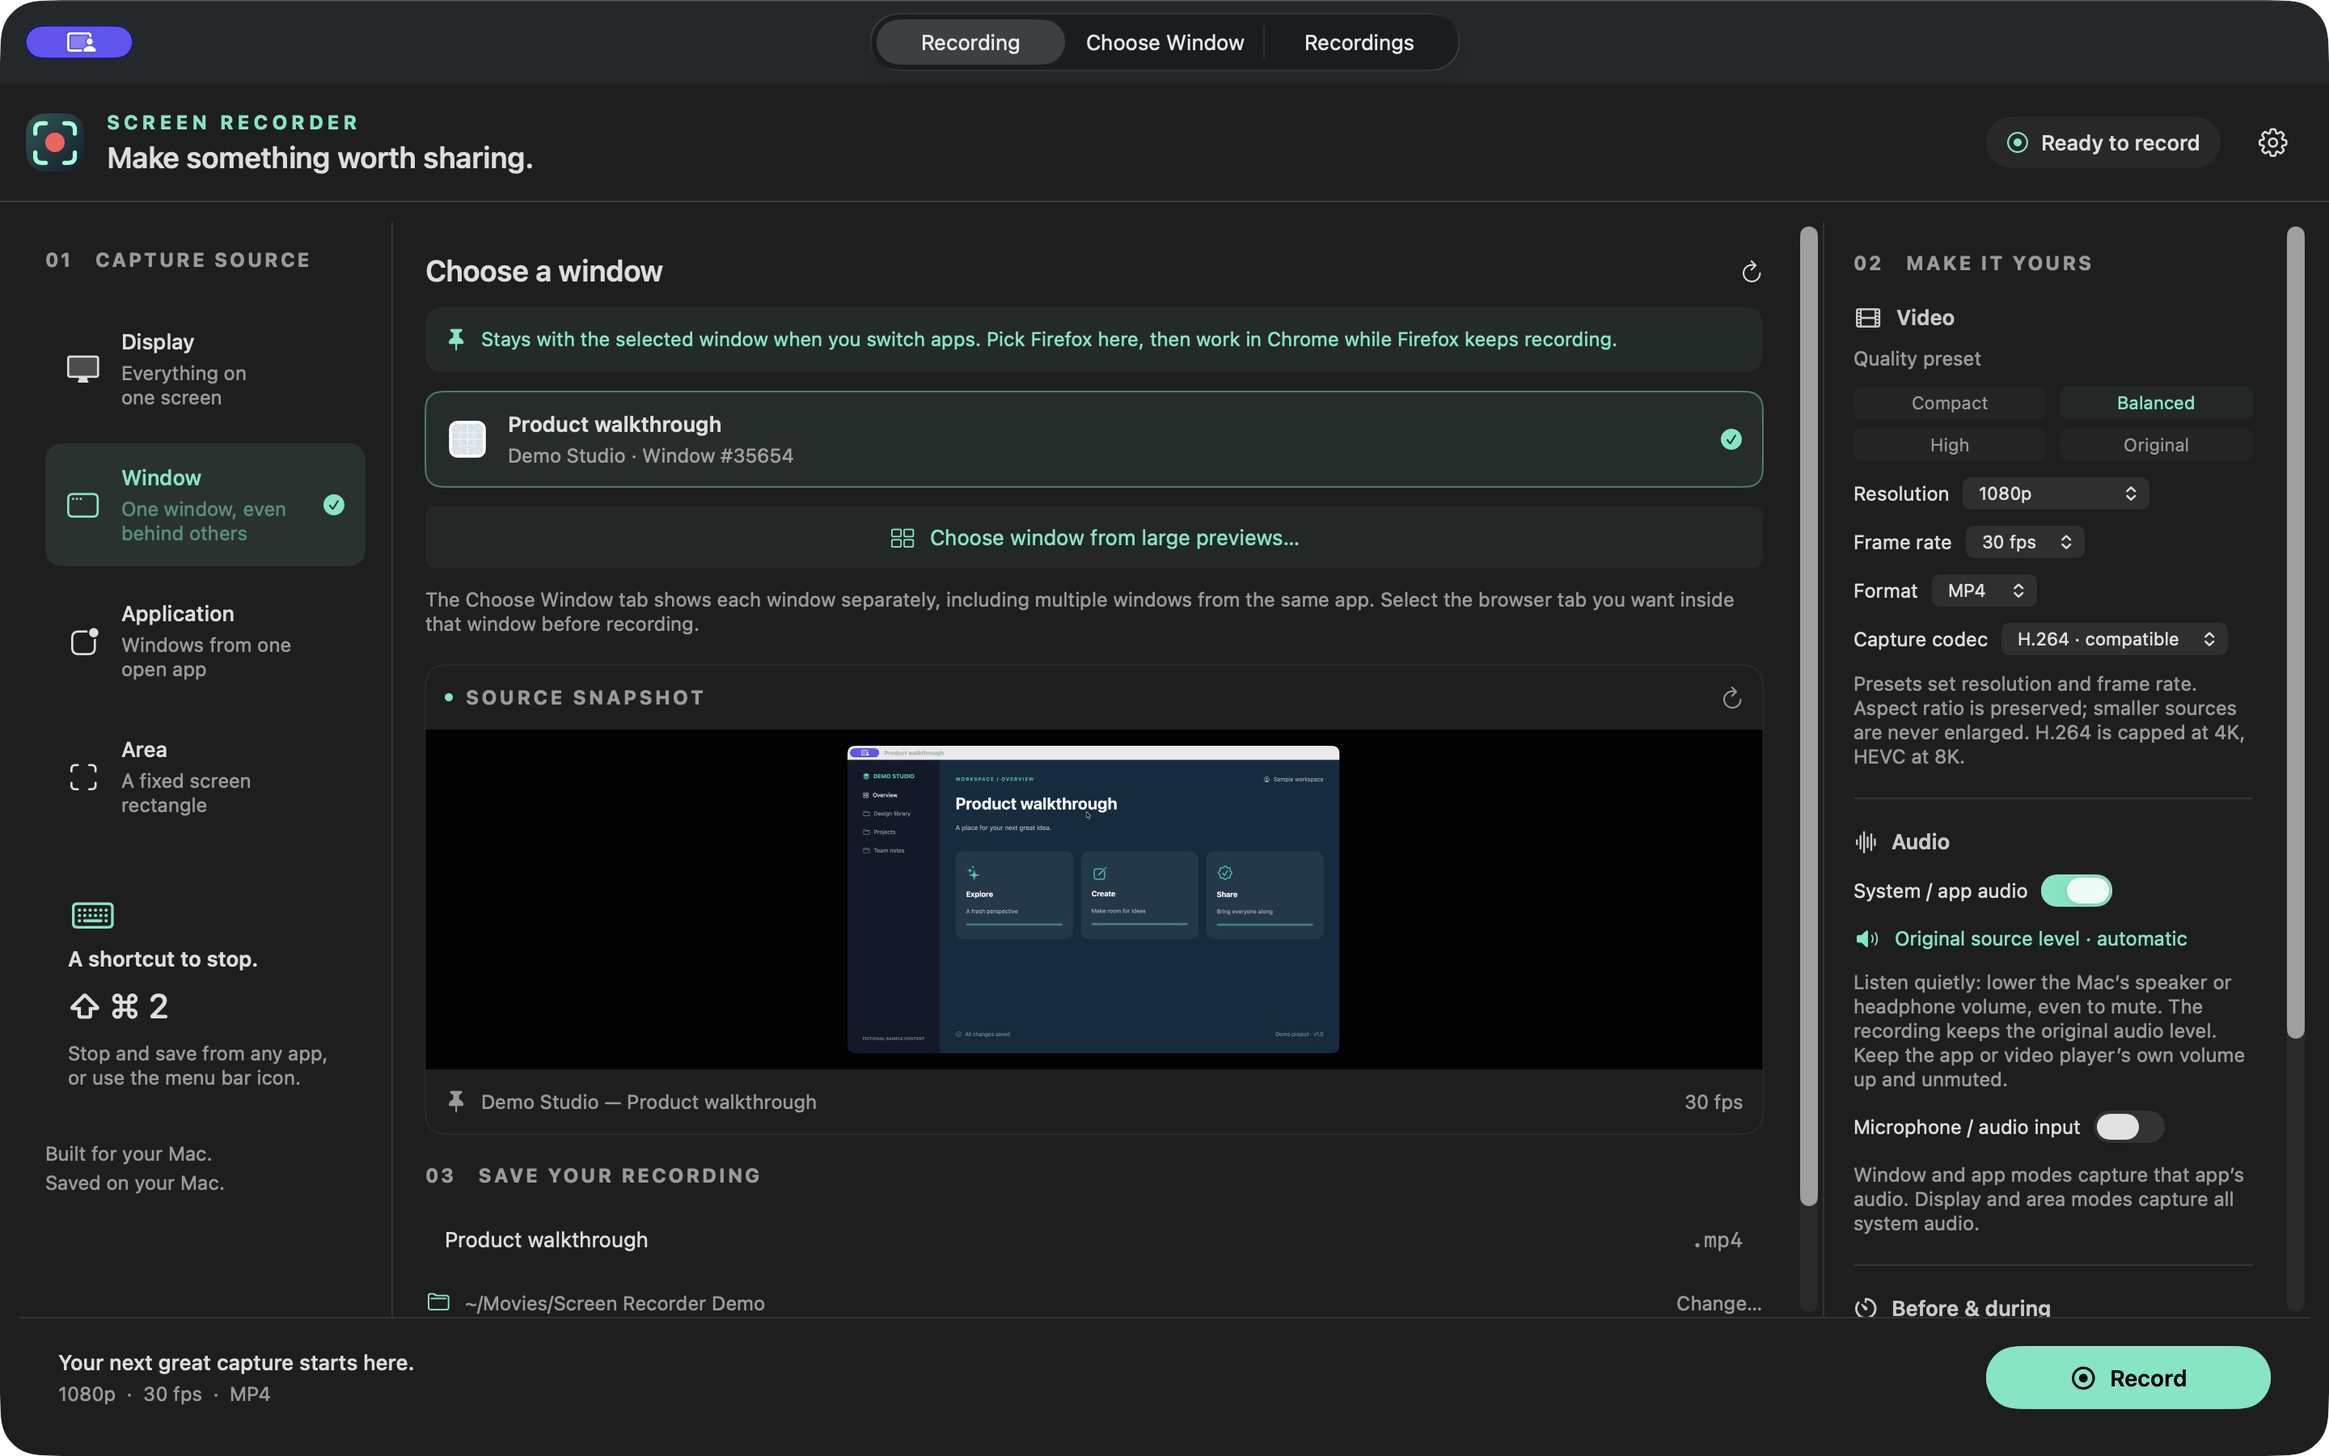
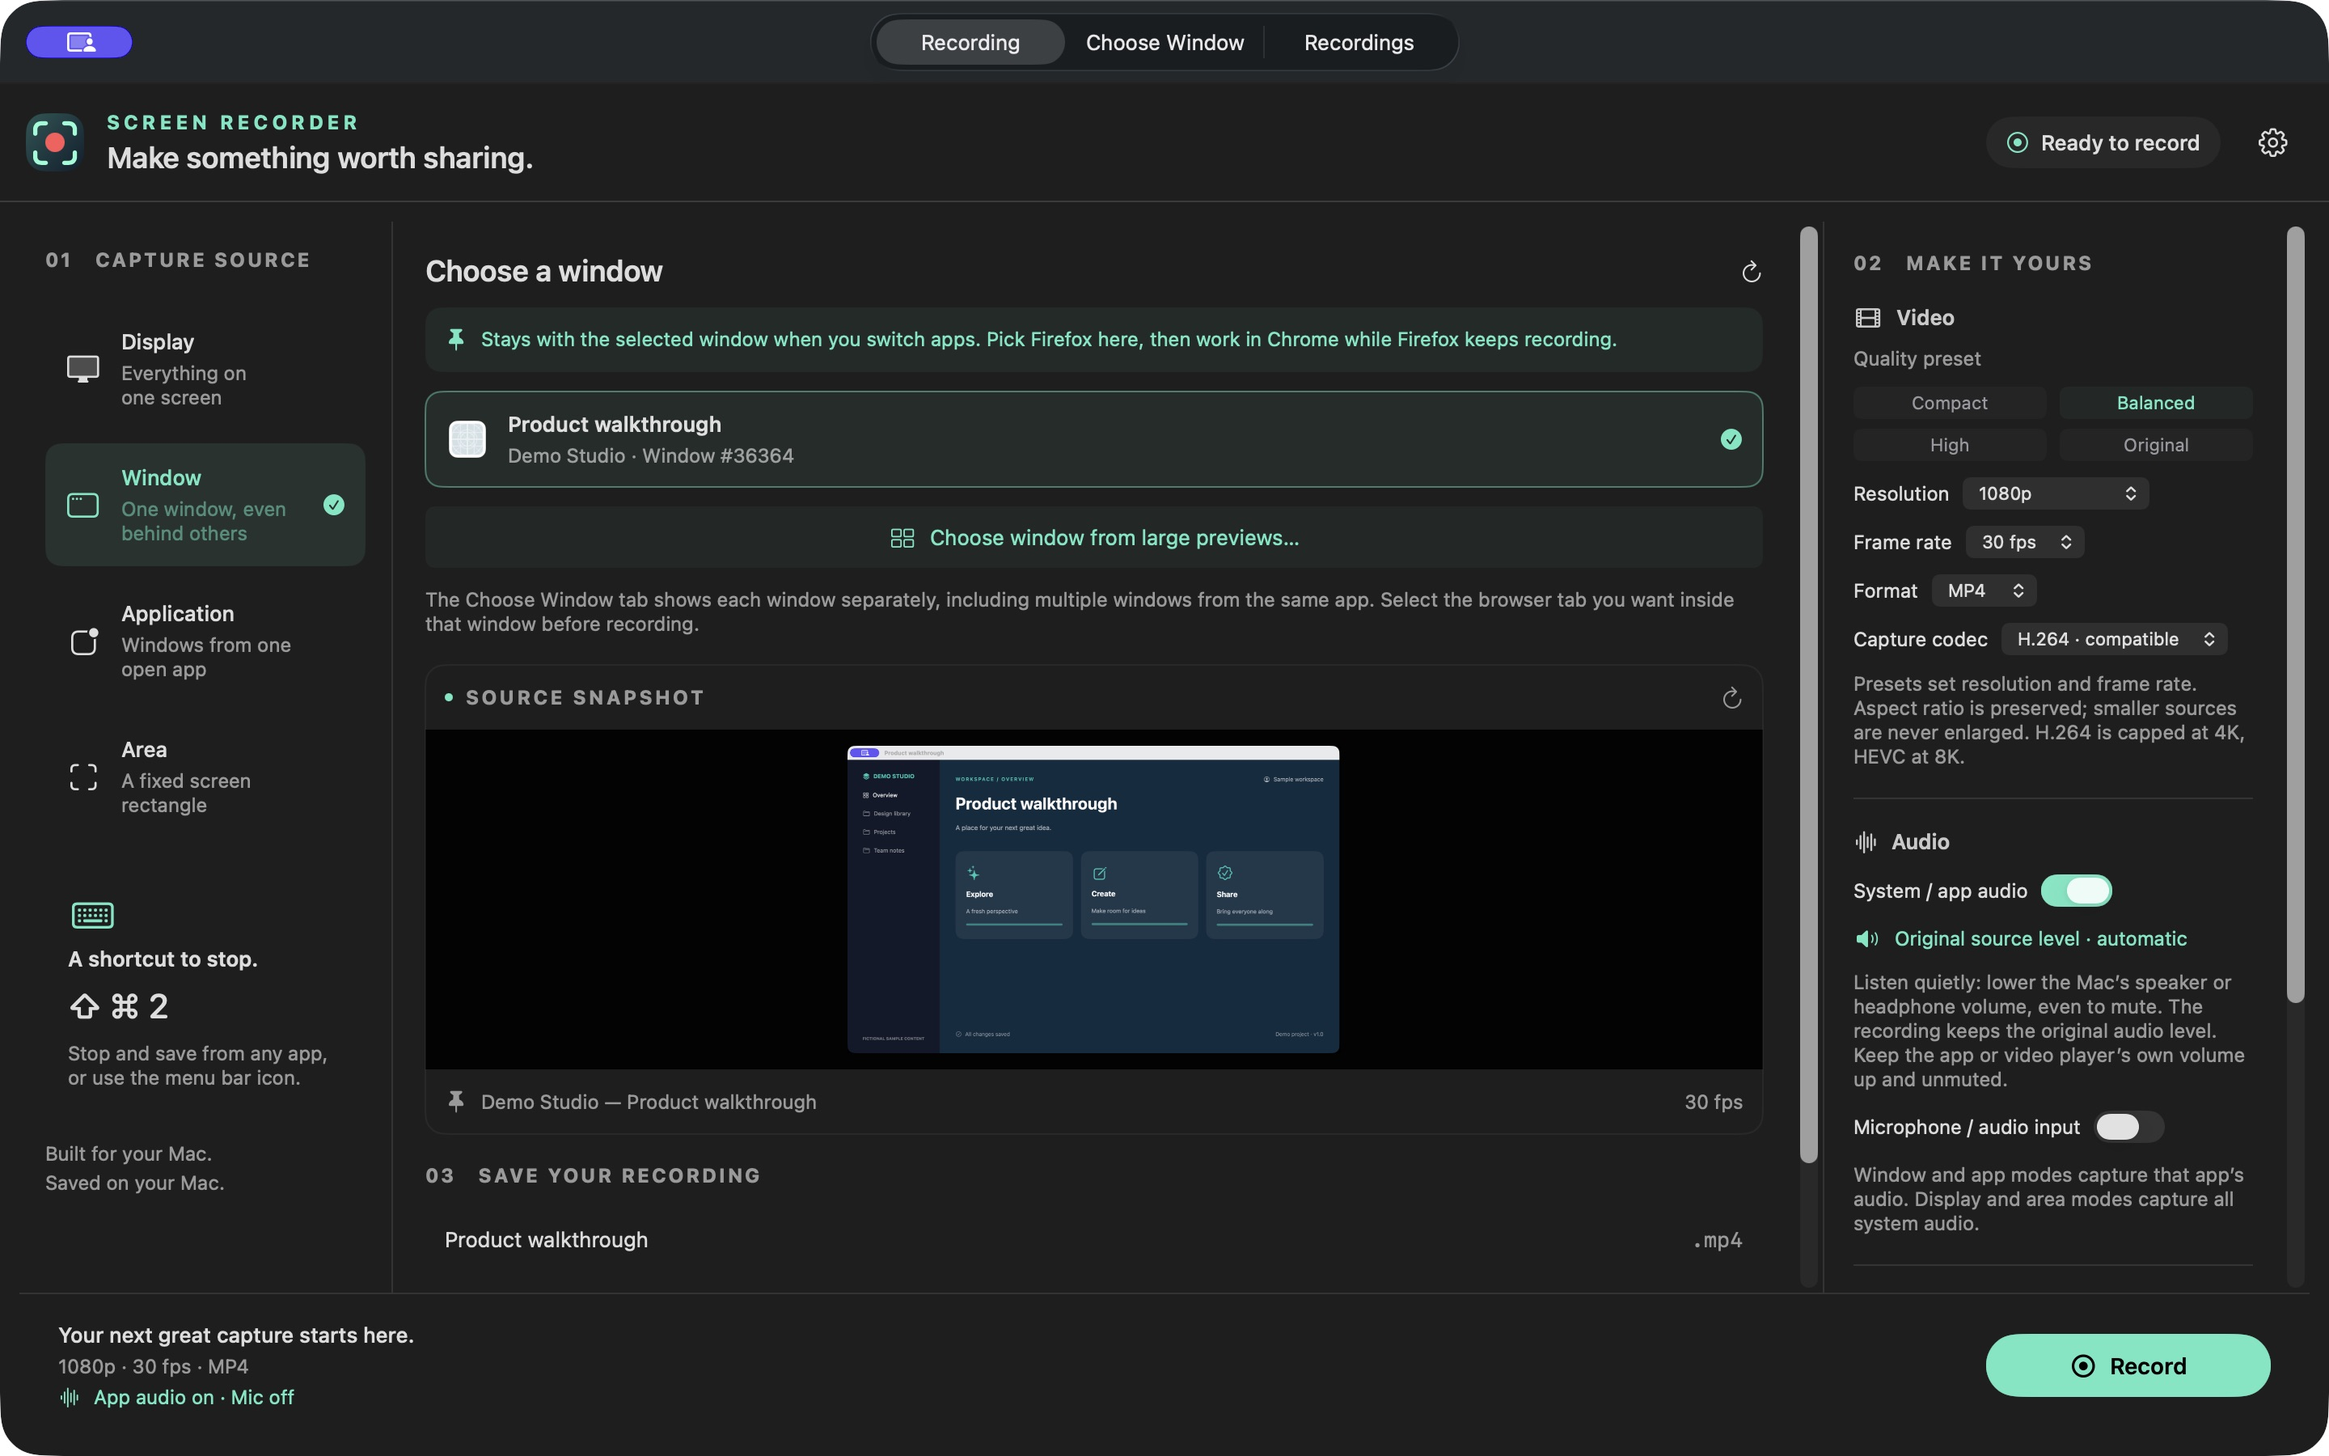
Document bulk cleanup and keyboard finishing touches

diff --git a/guides/organizing-recordings.md b/guides/organizing-recordings.md
@@ -6,7 +6,7 @@
 
 By default, Screen Recorder keeps the existing **Recording YYYY-MM-DD HH-mm-ss** naming style and saves directly in **Movies → Screen Recorder**, or the folder you have already chosen. MP4 remains the default for a new installation. Your saved preferences are retained when updating.
 
-Open **Settings → Naming & Folders**, or **Naming & folder rules…** below the filename in the Recording tab. All rules are optional and apply only to future recordings. They never rename or reorganize existing files. Choose **Reset naming & folder rules** to return to using the filename field and saving directly in your selected base folder.
+Open **Settings → Naming & Folders**, or **Naming & folder rules…** below the filename in the Recording tab. All rules are optional and apply only to future recordings. They never rename or reorganize existing files. Choose **Reset naming & folder rules…** and confirm to return to using the filename field and saving directly in your selected base folder. **Edit → Undo** restores the complete previous rule set during the current app session.
 
 ![Naming settings with a fictional app and month folder example](../images/naming-settings.jpg)
 
@@ -65,10 +65,22 @@ Open the **Recordings** tab, or choose **Recordings & Storage** in the menu bar.
 - **Video files:** combined logical size of the listed videos.
 - **Folder total:** combined logical size of visible regular files, including non-video files and temporary recordings. This is not the exact disk allocation or the size of other save folders or drives.
 - **Created** and **Modified:** filesystem timestamps. Selecting a file shows the full date/time, including seconds, and exact byte count. These dates may change when files are copied or edited; they are not a guaranteed original recording start or end time.
-- **Sort by:** Name, Folder, Size, Created, or Modified, with Ascending/Descending order.
-- **Search:** filter by filename or subfolder. The matching count shows how many of the scanned videos are visible. Summary totals still cover the whole scanned folder.
-- **Open Video**, **Reveal in Finder**, **Copy File**, and **Copy Path** act on the selected file. Double-clicking a row opens it in its default player; right-clicking offers the same actions.
+- **Sort by:** Name, Folder, Size, Created, or Modified. Click column headings to sort, click again to reverse, or use the picker and direction arrow. The controls stay synchronized.
+- **Search:** filter by filename or subfolder. Cmd-F focuses search; the clear button or Escape clears it. The matching count shows how many scanned videos are visible. Summary totals cover the whole scanned folder. Filtering clears selections that are no longer visible, so actions cannot target a hidden row.
+- **Open Video** opens one selected video in its default player. Double-clicking a single row does the same.
+- **Quick Look** or **Space** previews selected videos without opening a separate player. Press Escape to close the preview.
+- **Reveal** opens selected files in Finder. **Copy Files** copies the selected videos for pasting into Finder or a compatible app. Right-click also offers **Copy Path / Copy Paths**.
 
 The scan skips hidden files, application packages, symbolic links, and unfinished recording sections in the video list. Temporary sections still count toward Folder total. Unreadable items produce a warning and totals may be incomplete. A missing save folder shows an empty list until it is created.
 
 The list refreshes when opened, when your save folder changes, and after a recording is saved. Use **Refresh** for files changed in Finder or for an updated size during recording. The Recordings tab remains available while recording; use the menu bar to pause or stop.
+
+## Select several videos and clean up
+
+Use **Cmd-click** for separate files, **Shift-click** or **Shift-arrow** for a range, and **Cmd-A** to select all currently visible rows. The selection summary shows the number of files and their combined size.
+
+With the table focused, press **Delete** or **Cmd-Delete**, choose **Move to Trash…**, or right-click and choose it. A confirmation shows the count and size before any file is moved. Typing in search uses normal text-editing behavior; Delete there edits text. The app uses macOS Trash and does not permanently erase videos.
+
+Use **Edit → Undo**, **Cmd-Z**, or **Undo Move to Trash** to restore the batch during this app session. After quitting, use Trash in Finder to recover files. Undo restores the original destination, even if you have since chosen another save folder. It never replaces a file that now uses the original name. If restoring fails, the video stays in Trash; resolve the conflict or reconnect the drive, then retry Undo or recover it with Finder.
+
+Trash actions are disabled during recording or saving. Active files, temporary/recovery sections, symbolic links, and files outside the selected folder are protected. Changing the save folder does not delete anything. The list and totals refresh after Trash or restoration.

diff --git a/guides/settings-and-files.md b/guides/settings-and-files.md
@@ -19,7 +19,7 @@ Resolution choices also include 4K. The source’s aspect ratio is preserved, an
 
 ## Appearance and smaller windows
 
-Choose **Settings → General → Appearance → System, Light, or Dark**. System follows your Mac’s appearance. The app uses larger text and adapts to smaller windows: capture choices move above the preview and **Video, audio & timer options** expands below the save settings. Record, pause, and stop controls stay at the bottom while setup options scroll.
+Choose **Settings → General → Appearance → System, Light, or Dark**. System follows your Mac’s appearance. The app uses larger text and adapts to smaller windows: capture choices move above the preview and **Video, audio & timer options** expands below the save settings. Record, pause, and stop controls stay at the bottom while setup options scroll. A status line shows whether system/app audio and the microphone are on, including when compact options are collapsed; the menu bar menu also shows these choices.
 
 ## Before and during recording
 
@@ -75,11 +75,11 @@ The existing filename and destination defaults stay the same. For optional prefi
 - While idle, **Next Recording** lets you change the preferred format, system/app audio, microphone, and countdown. Microphone permission is still requested only if needed when recording starts.
 - **Open Save Folder** opens your base destination; **Open Recording Folder** opens the current nested destination during a session.
 
-Completed files can also be opened, revealed, or copied from the [Recordings tab](organizing-recordings.md#recordings-tab-and-storage-statistics). Move or delete completed recordings with Finder after saving finishes.
+Completed files can also be opened, revealed, or copied from the [Recordings tab](organizing-recordings.md#recordings-tab-and-storage-statistics). Use bulk selection and confirmed **Move to Trash…** with session Undo in the Recordings tab, or manage completed videos with Finder after saving finishes. See [selection and cleanup](organizing-recordings.md#select-several-videos-and-clean-up).
 
 ## Help and recovery
 
-**User Guide**, **Privacy Policy**, and **Support** are available in the Help menu and Settings. General settings show screen/audio and microphone permission states. Recording errors provide recovery actions such as **Choose Save Folder…**, **Refresh Sources**, and **Open Recovery Folder** when recoverable sections exist. Correct invalid names in the filename field or Naming & Folders settings before trying Record again.
+**User Guide**, **Privacy Policy**, and **Support** are available in the Help menu and Settings. General settings show screen/audio and microphone permission states. Recording errors appear above every main-window tab, so a failure remains visible when you are browsing recordings or choosing windows. They provide recovery actions such as **Choose Save Folder…**, **Refresh Sources**, and **Open Recovery Folder** when recoverable sections exist. Correct invalid names in the filename field or Naming & Folders settings before trying Record again.
 
 ## Updates and removal
 

diff --git a/guides/capture-sources.md b/guides/capture-sources.md
@@ -14,8 +14,10 @@
 1. Click **Window**, or open the **Choose Window** tab.
 2. Use the **Application** filter or search by window title, app name, or window number. Enable **Include off-screen / minimized windows** if you need a window that is not currently on screen.
 3. Select the preview of the exact window you want. Check its title, window number, and selection marker.
-4. Click **Use selected window** to return to recording settings.
+4. Click **Use selected window** or press **Return** to return to recording settings.
 5. Confirm the source and start recording.
+
+Cmd-F focuses the window search. Use its clear button or Escape to clear the query. In smaller windows, **About windows and browser tabs** expands the guidance; leave it collapsed to give previews more room.
 
 The gallery groups windows by their application. Each window has a separate card, including windows with the same title. Separate running instances with the same app name have different instance labels and groups. The instance number is just an identifier to help tell them apart.
 
@@ -45,7 +47,9 @@ Application capture is tied to the chosen display. Other apps are excluded, and 
 
 ## Record an area
 
-Choose **Area**, select a display, and click **Drag to select an area…**. Drag the rectangle you want; press Escape to cancel. You can choose a different area before starting.
+Choose **Area** and select a display. **Enter area size & position…** lets you type Left, Top, Width, and Height in points, measured from the display’s top-left corner. The area must be at least 16 × 16 points and entirely inside that display. Retina recordings can contain more pixels than the point dimensions.
+
+You can also choose **Drag to select an area…**. Drag and release, or use arrow keys to move an initial centered rectangle. **Shift-arrow** resizes; **Option** uses ten-point steps. **Return** selects the area; **Escape** cancels. The overlay exposes its current dimensions to accessibility tools. You can choose a different area before starting.
 
 The rectangle stays in a fixed location on that display. It does not follow a window that you move. If Chrome or a notification covers the rectangle, it becomes part of the recording.
 

diff --git a/PRIVACY.md b/PRIVACY.md
@@ -23,7 +23,7 @@ Display and Area recordings can include other apps, notifications, and anything 
 
 The app reads available application names and window titles to populate the chooser. Window-gallery snapshots use a bounded memory cache while the app runs, so scrolling and revisiting the chooser can reuse them. They are not saved as screenshot files or uploaded by the app. Off-screen windows are not automatically brought forward to obtain a preview. Main-window source snapshots are also previews, not uploaded images.
 
-The Recordings tab reads filenames, relative folders, sizes, and filesystem creation/modification dates in your chosen save folder and its subfolders. This information stays on your Mac. The scan skips symbolic links, hidden files, and application packages; it does not automatically open or upload the videos. Optional naming rules can include the selected application’s name in saved filenames or folders.
+The Recordings tab reads filenames, relative folders, sizes, and filesystem creation/modification dates in your chosen save folder and its subfolders. This information stays on your Mac. The scan skips symbolic links, hidden files, and application packages; it does not automatically open or upload the videos. Quick Look opens only when requested. Confirmed cleanup moves selected completed videos to macOS Trash. Session Undo uses local, in-memory file-access information; it does not upload files or erase Trash. Optional naming rules can include the selected application’s name in saved filenames or folders.
 
 The app uses macOS App Sandbox. Movies-folder access supports the default destination. Custom-folder access is granted through the standard macOS chooser and retained using a local security-scoped bookmark. If this permission becomes invalid, you can choose the folder again. The app does not request unrestricted filesystem or network access.
 

diff --git a/README.md b/README.md
@@ -17,7 +17,9 @@ Designed for **macOS 15 or later**, on Apple silicon and Intel Macs. Final compa
 - Choose system, light, or dark appearance and use a layout that adapts to smaller windows.
 - Keep the default filename and folder, or add prefixes, suffixes, app names, and date-based subfolders.
 - Save as MP4 (default) or MOV using built-in macOS recording, with no extra software.
-- Browse recordings in a separate tab with size totals, creation/modification times, search, and sorting.
+- Browse recordings with size totals, dates, search, and sortable columns.
+- Select multiple videos, preview with Quick Look, and move completed videos to Trash with confirmation and Undo.
+- Set a recording area by dragging, typing its position/size, or using the keyboard.
 
 ## Take a look
 

diff --git a/guides/troubleshooting.md b/guides/troubleshooting.md
@@ -67,3 +67,7 @@ If macOS displays a security warning, verify the download source and contact sup
 ## Does the app record when the laptop lid is closed?
 
 Do not rely on that. The idle-sleep preference does not prevent lid-close sleep, forced sleep, or shutdown. Keep the Mac awake and the source available throughout a recording.
+
+## Undo could not restore a video
+
+If the original filename is now in use, Undo leaves the trashed video intact and reports the conflict. Rename or move the newer file with Finder, then retry Undo. Reconnect a disconnected destination drive first. After quitting Screen Recorder, recover videos from Trash in Finder; session Undo history is not kept across launches. Do not empty Trash until you have checked the recordings you want to keep.
